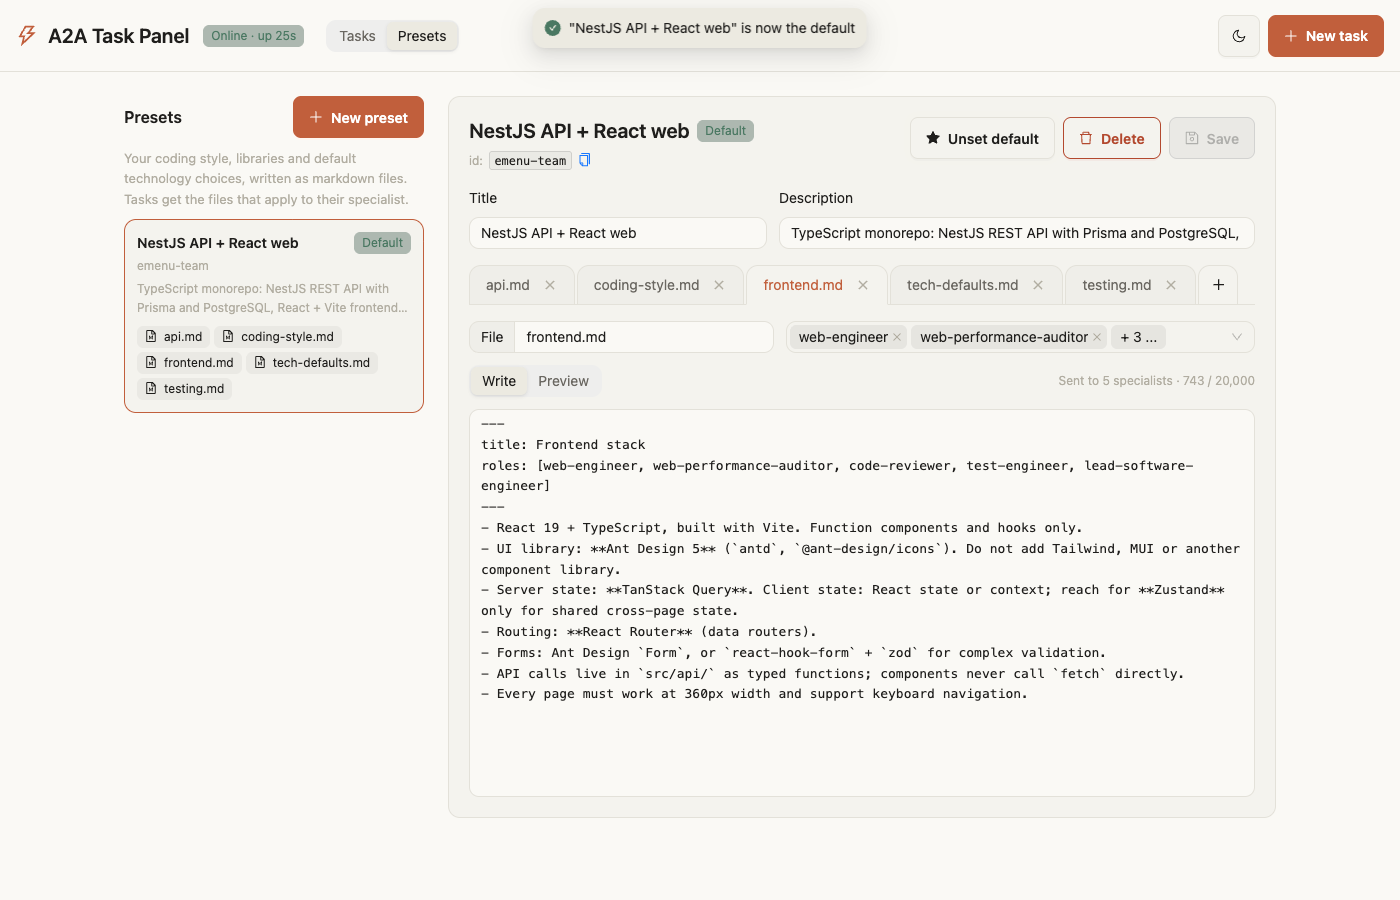
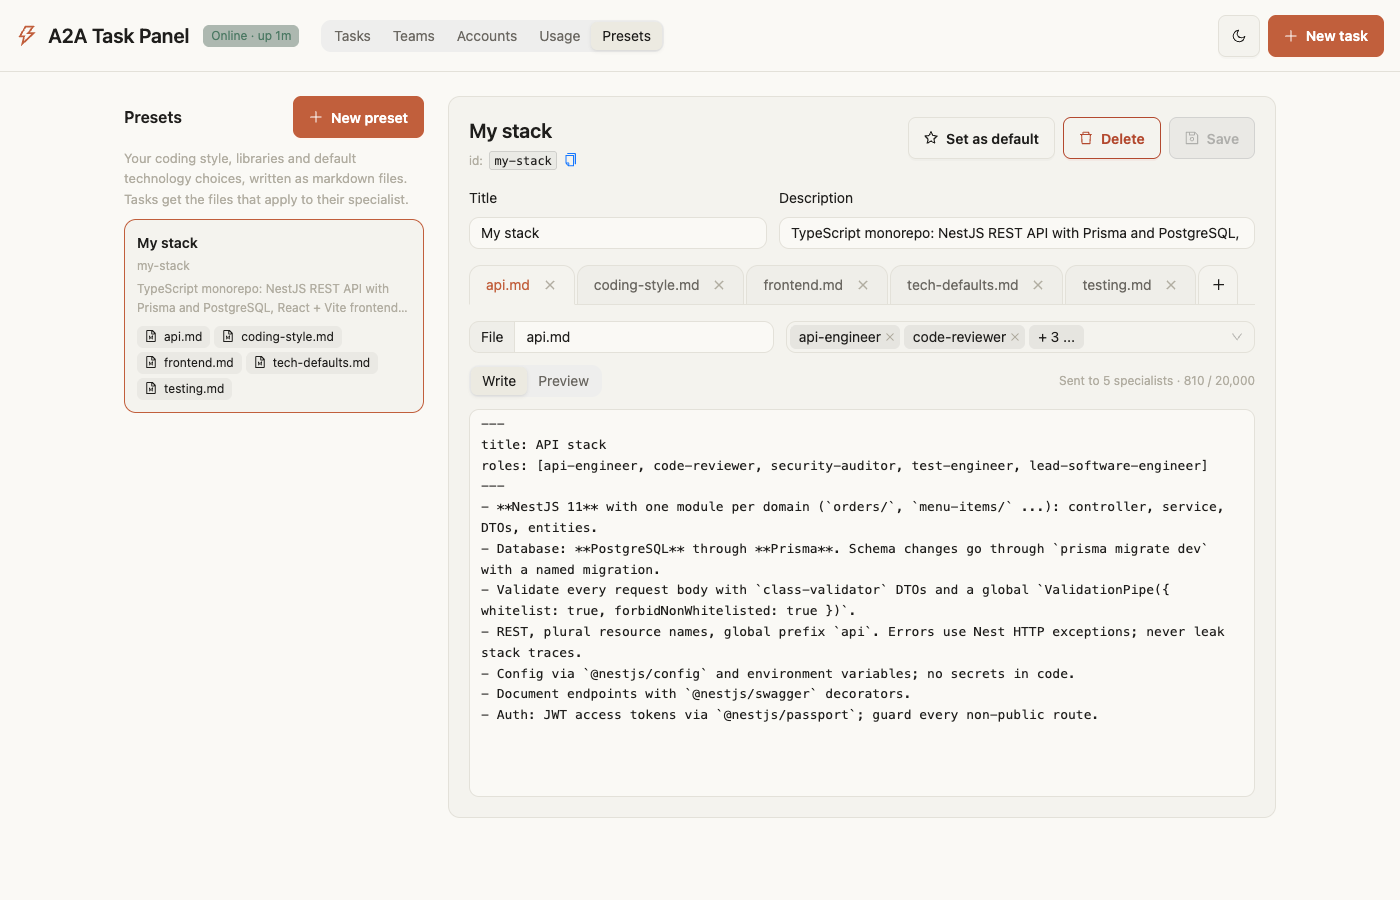
docs: screenshots of the Tasks, Accounts, Usage, Teams and Presets pages
- New screenshots of the Tasks page, Accounts page, Add account dialog,
  Usage page, Teams page and a team plan waiting for approval; preset
  screenshots retaken with the current header. Emails are masked.
- README: panel pages and pushed updates, Claude display names, where
  Antigravity sign-ins are read from, and names shown across the panel.

diff --git a/README.md b/README.md
@@ -178,12 +178,17 @@ When running `a2a-panel server start`:
 
 Open `http://127.0.0.1:5188/dashboard` (or run `a2a-panel dashboard`).
 
+- Pages: Tasks, Teams, Accounts, Usage and Presets. Updates are pushed to the page over one event stream, so an idle panel sends no repeating requests.
 - Monitor: stat cards, status filter, search, per-task detail with live log. Works on mobile.
 - Control: dispatch a task (specialist, workspace, prompt, preset, plan/edit mode, effort), preview the exact prompt, cancel a running task, run a task again.
 - Presets: create, edit and preview your preference files (see "5. Presets").
 - Built with React, Vite and Ant Design in `panel/`. Light and dark themes.
 - Tasks started from Claude Code (MCP) or the CLI show up too, because the panel reads the task logs and PID files in `logs/`.
 - The live log shows each tool the agent runs, with its main argument, for example `[tool] run_command: npm test` or `[tool] read_file: /path/to/file.ts`. A tool call that fails shows as `[error] <tool>: <args> (<reason>)`. If `agy` reports denied actions, the task output ends with `[A2A] Antigravity denied these actions: …`.
+
+**Tasks page.** Each task shows the account that ran it, with its picture.
+
+![Tasks page](docs/screenshots/17-tasks.png)
 
 ### Keep the panel running after a restart
 
@@ -392,11 +397,13 @@ Account cards show the account's real name and email where the provider makes th
 |---|---|---|---|
 | Antigravity | Google profile | yes | Google profile photo |
 | Codex | from the sign-in token | yes (and plan) | none |
-| Claude | none | from `claude auth status` | none |
+| Claude | display name from the account's `.claude.json` | from `claude auth status` | none |
 
-For Codex the name, email and plan are read locally from the id_token in that account's `auth.json`. For Antigravity the email is read from the stored sign-in, and the name and photo come from one request to Google's user-info endpoint with that account's own access token, made after a status check; if the token has expired, only the email is shown until agy has refreshed it. Tokens are never logged, stored elsewhere or returned by the API; only name, email, plan and the photo are saved. A picture you upload always takes precedence, and removing it shows the provider photo again.
+For Codex the name, email and plan are read locally from the id_token in that account's `auth.json`. For Claude the display name is read from `oauthAccount` in the account's own `.claude.json`, only when its email matches. For Antigravity the email is read from the stored sign-in (agy's keychain entry `gemini`, or its older token file; the newest one wins), and the name and photo come from one request to Google's user-info endpoint with that account's own access token, made after a status check; if the token has expired, the name saved earlier is kept. Tokens are never logged, stored elsewhere or returned by the API; only name, email, plan and the photo are saved. A picture you upload always takes precedence, and removing it shows the provider photo again.
 
 Each account can have a custom avatar picture (PNG, JPEG, WebP, max 512 KB) uploaded via the panel UI or `PUT /api/accounts/:id/avatar`. Uploaded images are validated against their magic byte signatures, stored in `accounts/<id>/avatar.<ext>` (or `accounts/.avatars/<id>.<ext>` for built-in accounts), and served with `X-Content-Type-Options: nosniff`, `Content-Security-Policy: default-src 'none'`, and `Cache-Control: no-cache` headers. Deleting an account removes its picture.
+
+Everywhere else in the panel (leader and member pickers, team cards, run details, usage cards) an account shows the same name as its card; a label you typed yourself takes precedence.
 
 ### Usage & Budgets
 
@@ -432,6 +439,22 @@ a2a-panel usage --days 30              # token usage totals, quota windows and b
 ```
 
 The built-in accounts `agy`, `claude` and `codex` are the sign-ins those tools use on this computer, also outside a2a-panel. Signing one of them in or out replaces that sign-in, so the CLI asks for `--yes` (`a2a-panel accounts login claude --yes`) and the panel asks for confirmation. To add another account next to it, use `accounts add` or **Add account** instead.
+
+### Screenshots
+
+Emails are masked in these screenshots.
+
+**Accounts.** Several accounts per CLI, each with its own name, photo, sign-in state and usage. Built-in accounts are your default sign-ins; added accounts sit next to them.
+
+![Accounts page](docs/screenshots/18-accounts.png)
+
+**Add account.** Pick the CLI and sign in with its own login; the new account never replaces an existing sign-in.
+
+![Add account dialog](docs/screenshots/19-add-account.png)
+
+**Usage.** Tokens per account (new input plus output), plan quota where the provider reports it, budgets and daily activity.
+
+![Usage page](docs/screenshots/20-usage.png)
 
 ## 7. Teams
 
@@ -505,6 +528,16 @@ When connected via MCP, Claude Code can inspect and drive teams using:
 - `a2a_run_team(team, goal, workspace_path, mode, is_async)`: Start a team run (returns a compact summary to save tokens).
 - `a2a_get_team_run(run_id)`: Check plan progress, task statuses, token counts, and review results.
 - `a2a_cancel_team_run(run_id)`: Cancel an active team run and its running developer tasks.
+
+### Screenshots
+
+**Teams.** Each team has a leader account with its own instructions and member accounts with roles. Here Claude leads the iOS team and Codex leads the Android team.
+
+![Teams page](docs/screenshots/21-teams.png)
+
+**A plan waiting for approval.** In plan-first mode the Claude leader read the workspace and split the goal into three tasks for two accounts, with dependencies. Nothing is built until you press "Build this plan".
+
+![Team run with a plan](docs/screenshots/22-team-run.png)
 
 ## 8. Security model
 
